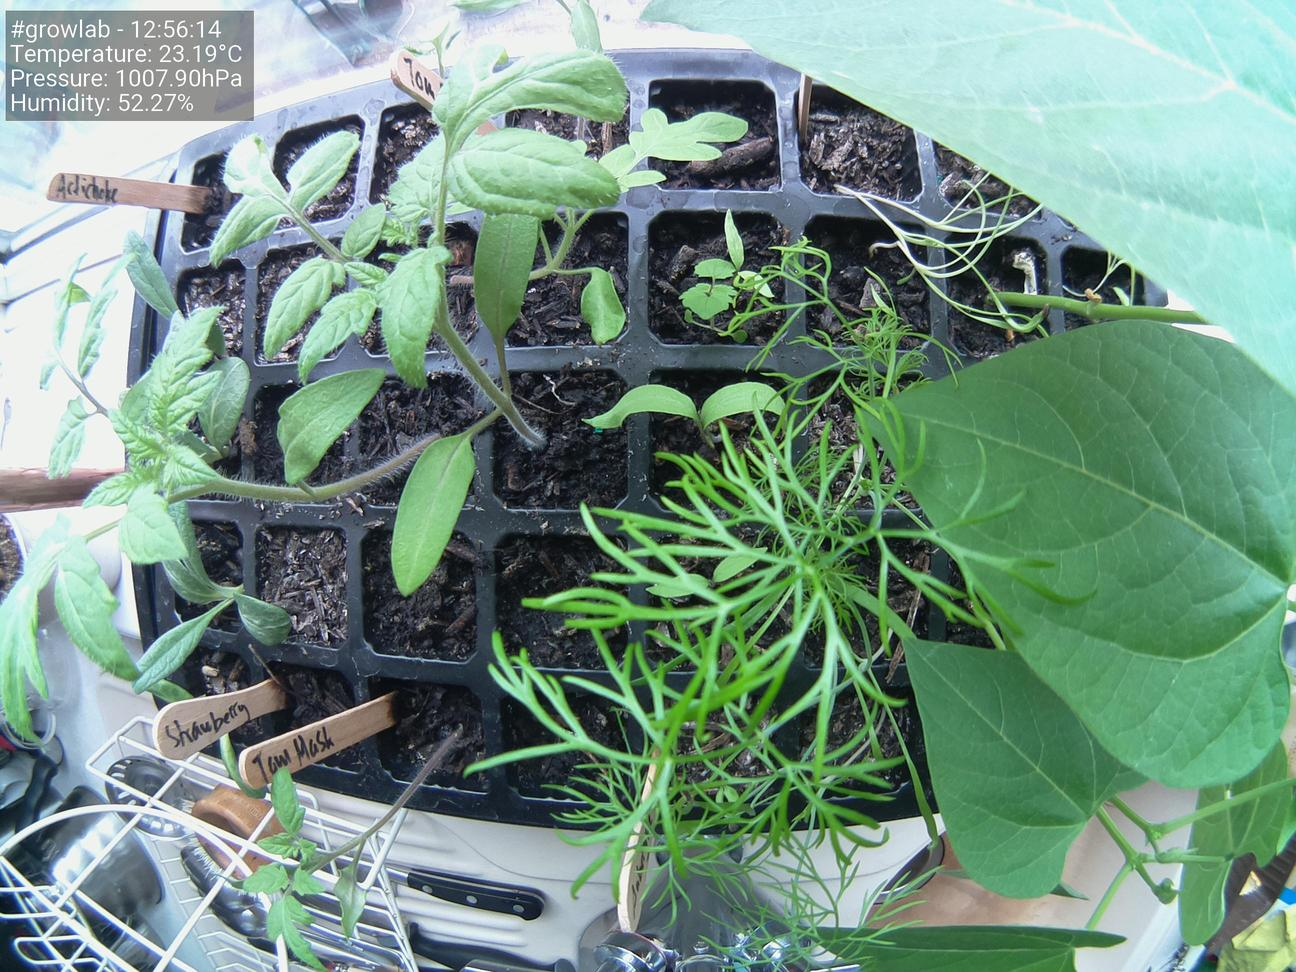
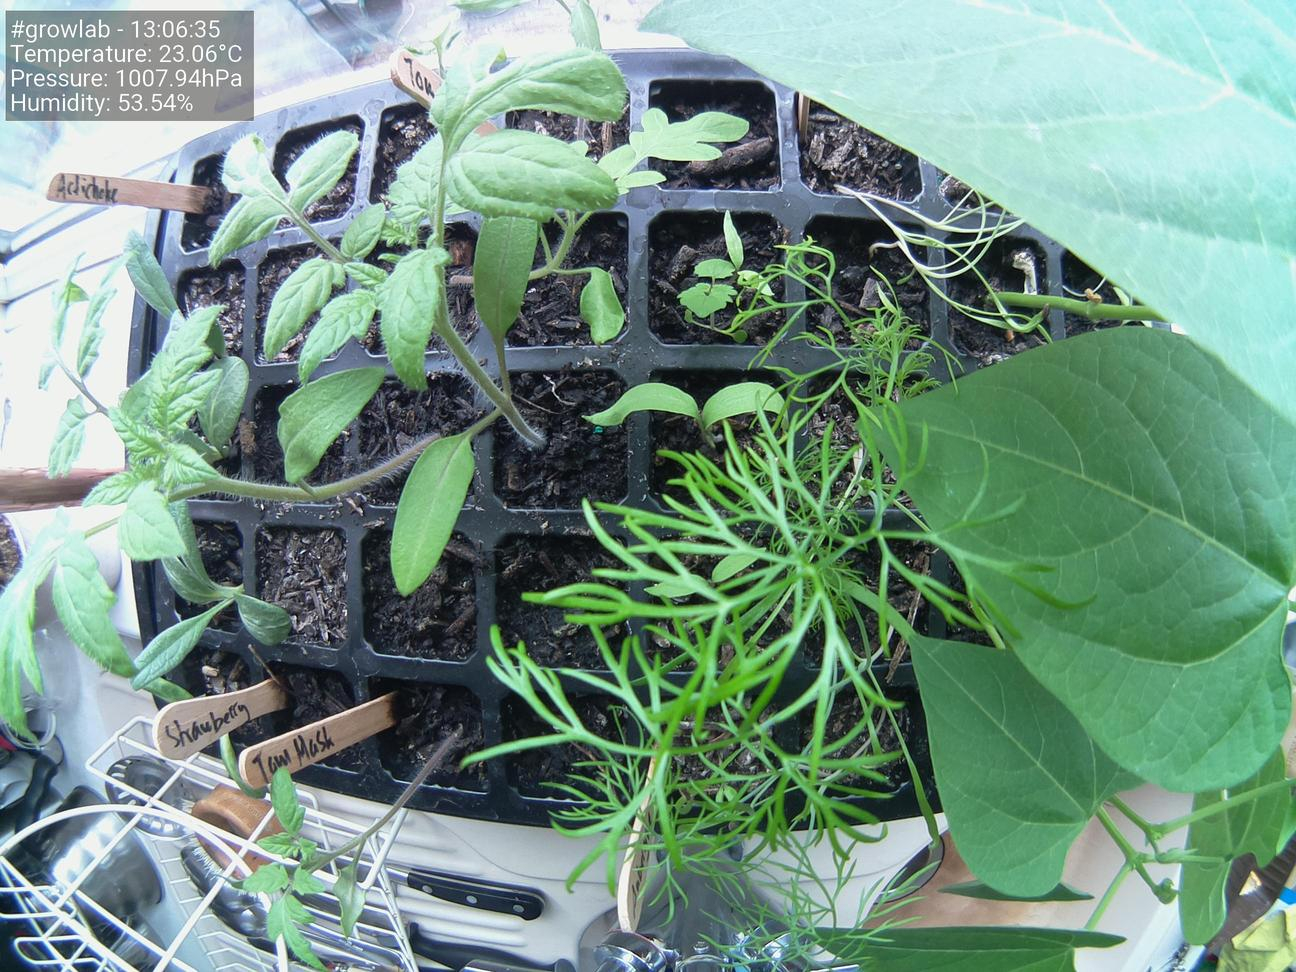
Update images at Wed 28 Apr 13:06:47 BST 2021

diff --git a/docs/index.html b/docs/index.html
@@ -38,19 +38,19 @@
                     <tbody>
                         <tr>
                             <td>Time</td>
-                            <td>12:56:14</td>
+                            <td>13:06:35</td>
                         </tr>
                         <tr>
                             <td>Temperature</td>
-                            <td>23.19°C</td>
+                            <td>23.06°C</td>
                         </tr>
                         <tr>
                             <td>Humidity</td>
-                            <td>52.27%</td>
+                            <td>53.54%</td>
                         </tr>
                         <tr>
                             <td>Pressure</td>
-                            <td>1007.90hPa</td>
+                            <td>1007.94hPa</td>
                         </tr>
                     </tbody>
                 </table>
@@ -58,7 +58,7 @@
 
                 <h5>Latest image</h5>
 		<div style="width: 85%;">
-	                <img class="figure-img img-fluid rounded" src="./preview.jpg?uid=1619610985.6422267">
+	                <img class="figure-img img-fluid rounded" src="./preview.jpg?uid=1619611606.757202">
 		</div>
             </div>
         </div>
